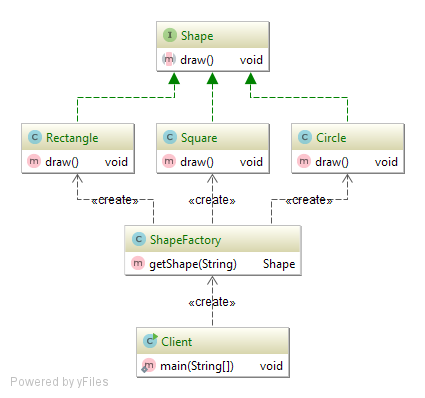
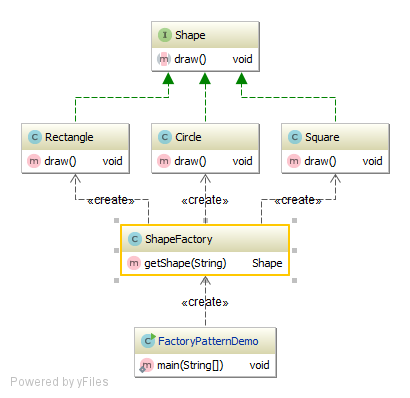
Refactor factory method pattern sample

diff --git a/src/main/java/com/github/kurkov/basepatterns/creational/factorymethod/sample2/FactoryPatternDemo.java b/src/main/java/com/github/kurkov/basepatterns/creational/factorymethod/sample2/FactoryPatternDemo.java
@@ -3,7 +3,7 @@ package com.github.kurkov.basepatterns.creational.factorymethod.sample2;
 /**
  * @author Aleksey Kurkov. Created on 26.11.2016
  */
-public class Client {
+public class FactoryPatternDemo {
 
     public static void main(String[] args) {
         ShapeFactory shapeFactory = new ShapeFactory();

diff --git a/src/main/java/com/github/kurkov/basepatterns/creational/factorymethod/sample2/readme.md b/src/main/java/com/github/kurkov/basepatterns/creational/factorymethod/sample2/readme.md
@@ -1,3 +1,7 @@
 **Sample class diagram:**
 
+![original_diagram_factory_method.png](original_diagram_factory_method.png)
+
+---
+
 ![diagram_factory_method.png](diagram_factory_method.png)
